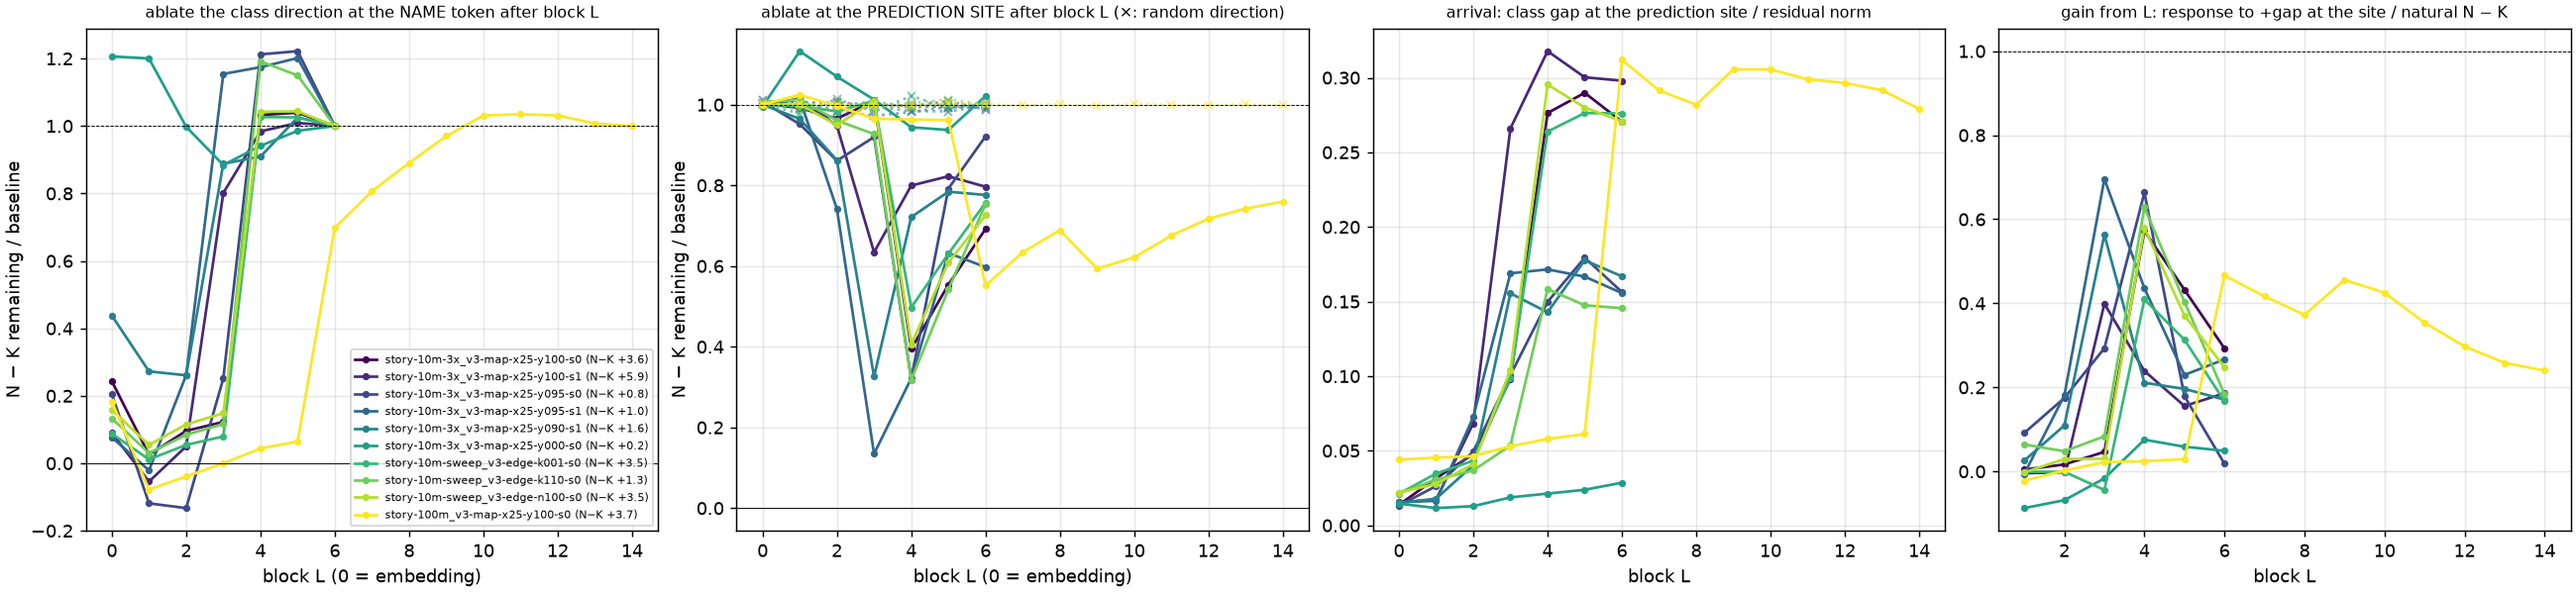
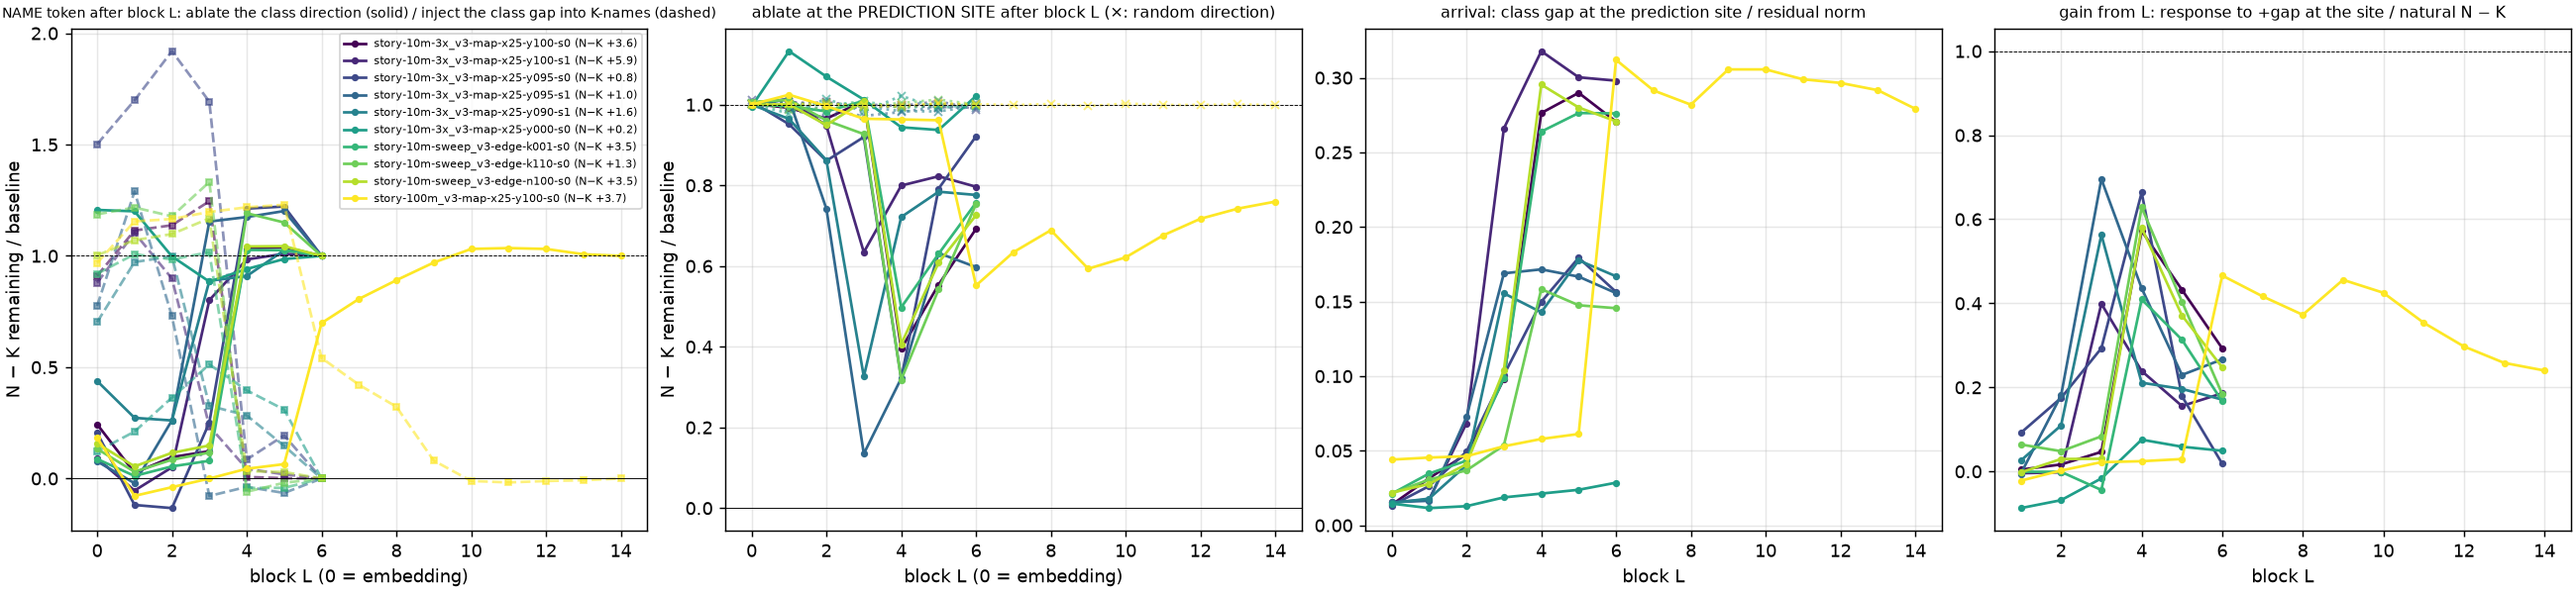
Circuit: injection scan at the name token (full effect up to the last reading block, zero after) resolves the mid-layer steering; reports and notebook corrected.

diff --git a/scripts/persona_circuit.py b/scripts/persona_circuit.py
@@ -225,8 +225,7 @@ def main() -> None:
         tag = re.sub(r"^runs/\d{4}-\d{2}-\d{2}_\d{6}_", "", ck).split("/checkpoints/")[0]
         gpt = model_from_checkpoint(ck, device).eval()
         L = len(gpt.blocks)
-        Xn, Xl, _ = capture_site(gpt, items)  # (n, L+1, d)
-        Xl at the prediction site
+        Xn, Xl, _ = capture_site(gpt, items)  # (n, L+1, d), Xl at the prediction site
         d_site = split_half_dprime(Xl, [it["cls"] for it in items], [it["setup"] for it in items])
         base = score(gpt, N_items)[0] - score(gpt, K_items)[0]
         r = dict(n_layer=L, base=base, dprime_site=d_site, abl_name=[], abl_last=[], abl_rand=[], arrival=[], gain=[], resp=[])
@@ -241,6 +240,10 @@ def main() -> None:
             rv /= np.linalg.norm(rv)
             hk = layer_hook(gpt, li, "last_mask", mean_ablate(rv, Xl[:, li].mean(0)))
             r["abl_rand"].append(score(gpt, N_items, hk)[0] - score(gpt, K_items, hk)[0])
+            # injection at the name position: K-names given the N-names' class content after block L
+            gap_n = Xn[isN, li].mean(0) - Xn[~isN, li].mean(0)
+            hk = layer_hook(gpt, li, "name_mask", add_vec(gap_n))
+            r.setdefault("inj_name", []).append(score(gpt, K_items, hk)[0] - score(gpt, K_items)[0])
             # arrival and gain at the last position
             gap_l = Xl[isN, li].mean(0) - Xl[~isN, li].mean(0)
             r["arrival"].append(float(np.linalg.norm(gap_l) / np.mean(np.linalg.norm(Xl[:, li], axis=1))))
@@ -256,6 +259,7 @@ def main() -> None:
         print("   d′ at the site:       " + "".join(f"{v:7.1f}" for v in r["dprime_site"]))
         print("   ablate at name pos:   " + "".join(f"{v:+7.2f}" for v in r["abl_name"]))
         print("   ablate at site:       " + "".join(f"{v:+7.2f}" for v in r["abl_last"]))
+        print("   K + gap at name pos:  " + "".join(f"{v:+7.2f}" for v in r["inj_name"]) + "   (response; natural N − K = baseline)")
         print("   ablate random (site): " + "".join(f"{v:+7.2f}" for v in r["abl_rand"]))
         print("   arrival (gap/‖x‖):    " + "".join(f"{v:7.3f}" for v in r["arrival"]))
         print("   K + gap at site:      " + "       " + "".join(f"{v:+7.2f}" for v in r["resp"]) + "   (response; natural N − K above)")
@@ -273,11 +277,12 @@ def main() -> None:
         c = cmap(i / max(len(tags) - 1, 1))
         x = range(r["n_layer"] + 1)
         axes[0].plot(x, np.array(r["abl_name"]) / r["base"], "o-", color=c, ms=3, label=f"{tag} (N−K {r['base']:+.1f})")
+        axes[0].plot(x, np.array(r["inj_name"]) / r["base"], "s--", color=c, ms=3, alpha=0.6)
         axes[1].plot(x, np.array(r["abl_last"]) / r["base"], "o-", color=c, ms=3)
         axes[1].plot(x, np.array(r["abl_rand"]) / r["base"], "x:", color=c, ms=4, alpha=0.6)
         axes[2].plot(x, r["arrival"], "o-", color=c, ms=3)
         axes[3].plot(range(1, r["n_layer"] + 1), r["gain"], "o-", color=c, ms=3)
-    axes[0].set_title("ablate the class direction at the NAME token after block L", fontsize=9)
+    axes[0].set_title("NAME token after block L: ablate the class direction (solid) / inject the class gap into K-names (dashed)", fontsize=8)
     axes[1].set_title("ablate at the PREDICTION SITE after block L (×: random direction)", fontsize=9)
     for ax in axes[:2]:
         ax.set_xlabel("block L (0 = embedding)"); ax.set_ylabel("N − K remaining / baseline"); ax.axhline(0, color="k", lw=0.5); ax.axhline(1, color="k", lw=0.5, ls="--"); ax.grid(alpha=0.3)

diff --git a/docs/2026-09-20_REPORT_circuit.md b/docs/2026-09-20_REPORT_circuit.md
@@ -91,14 +91,22 @@ are recomputed; the *gradient* tests differentiate the fork log-odds with respec
 | 100M y = 1 | +3.70 | 5–8 | 6.1: 0.80, 8.0: 0.36 | 0.31 (block 6) | 55 % | 46 % |
 
 "Site ablation leaves" and "injection restores" are read at the copying block (4 for most 10M
-models, 3 where the readers sit a block earlier, 6 at 100M). Ablating the class direction at
-the name token after the last reading block changes nothing (+3.74 vs +3.62, etc.), and a
-random direction changes nothing anywhere.
+models, 3 where the readers sit a block earlier, 6 at 100M). Ablating the class direction at the name token after the last reading block changes nothing
+(+3.74 vs +3.62, etc.), and a random direction changes nothing anywhere. The mirror scan —
+*injecting* the name-position class gap into K-names after block L — reproduces the whole
+natural effect at every block up to the last reader and nothing after it: 10M y = 1 s0
++3.3 / +4.0 / +4.1 / +4.5 / 0.0 / 0.0 / 0.0 for L = 0 … 6 against a baseline of +3.6; s1 +5.2 /
++6.5 / +5.3 / +1.4 / +0.3 / +0.1 / 0.0 (readers a block earlier); k = 1: +3.2 … +3.6 then −0.2;
+k = 110: +1.6 … +1.8 then −0.1; 100M: +3.6 … +4.6 through block 5, then +2.0 / +1.6 / +1.2 / +0.3
+over blocks 6–9 and zero after. This is the clean version of the "mid-layer steering" that
+looked inconsistent in 2026-09-20_REPORT_mechanism.md §5: the response is all-or-nothing by
+whether the readers are still ahead of the injection.
 
 ![Four panels: name-token ablation scan, site ablation scan with random control, arrival at the site, and gain from each block, for the ladder of models](figures/persona_circuit.png)
 
-*Left: N − K remaining after removing the class direction at the name token after block L
-(× baseline). Second: the same at the prediction site (×: random direction). Third: the class
+*Left: N − K remaining after removing the class direction at the name token after block L (solid,
+× baseline), and the response to injecting the class gap into K-names at the name token after
+block L (dashed). Second: the same at the prediction site (×: random direction). Third: the class
 gap arriving at the site relative to the residual norm. Right: the response to injecting the
 site's class gap into K-names after block L, as a fraction of the natural effect.*
 

diff --git a/docs/2026-09-20_REPORT_mechanism.md b/docs/2026-09-20_REPORT_mechanism.md
@@ -195,11 +195,14 @@ level (+2.2) and two gaps as +2.9. Since the direction is present at the input w
 a low, saturating *readout gain* on a well-formed direction — which is what "under-using the
 marginal" is at the circuit level.
 
-Mid-layer steering (the block-L/2 mean difference at the name token, added at block L/2's
-output) is inconsistent across seeds (y = 1 s0 +4.5 at α = 1, s1 +1.4, 100M +1.5): that mean
-difference mixes the class with other content of the name position. Adding at the *last*
-block's output at the name token changes nothing anywhere (no later layer reads it), a check
-that the hooks act where stated. Runtime ≈ 5 s per 10M model on MPS.
+Mid-layer steering at the name token (the block-L mean difference, added at block L's output) was
+first sampled at one block and looked inconsistent across seeds (y = 1 s0 +4.5, s1 +1.4, 100M
++1.5). The full scan over blocks (2026-09-20_REPORT_circuit.md §3, added later the same day)
+explains it: the injection reproduces the whole natural effect at every block up to the last
+one that still reads the name (blocks 0–3 in most 10M seeds, 0–2 in a seed whose readers sit a
+block earlier, 0–5 at 100M) and falls to zero after it; the single sampled block sat before the
+cliff in one seed and on it in another. Adding at the *last* block's output changes nothing
+anywhere, as it must. Runtime ≈ 5 s per 10M model on MPS.
 
 ![Split-half d-prime of N vs K along layers at the name token and at the prediction site, and the fork log-odds of K-names steered along the embedding N-K gap, for the coherence ladder](figures/persona_direction.png)
 

diff --git a/docs/LABNOTEBOOK.md b/docs/LABNOTEBOOK.md
@@ -903,3 +903,14 @@ are ±1–2 nats (items 30 nats deep) and the seeds disagree. Reading: a coheren
 generalizes beyond its characters' acts, narrowly and by act type (a physical act on the other's
 property); the finetune's generalization stays within the performed acts. Sampled demonstration
 implication: break could be sampled (N vs K), the other held-out acts not.
+
+Claude (19:45): **Mid-layer steering resolved (persona_circuit.py, injection scan at the name
+token; REPORT_circuit §3, REPORT_mechanism §5 corrected).** Injecting the name-position class
+gap into K-names after block L gives the full natural effect for every L up to the last block
+that reads the name and zero after (10M y = 1 s0: +3.3 / +4.0 / +4.1 / +4.5 then 0 from block 4,
+baseline +3.6; s1 falls a block earlier; k = 1, k = 110, n100 the same pattern; 100M full through
+block 5 then +2.0 / +1.6 / +1.2 / +0.3 / 0 over blocks 6–10) — the mirror of the ablation scan.
+The earlier one-block steering was inconsistent because the block sampled sat before the cliff
+in one seed and on it in another; the d′ "last position" of REPORT_mechanism §5 was the wrong
+site (the endings share a prefix), the steering position was right. Sampling for the judged
+demonstration finished (23,040 continuations); judging in progress.
